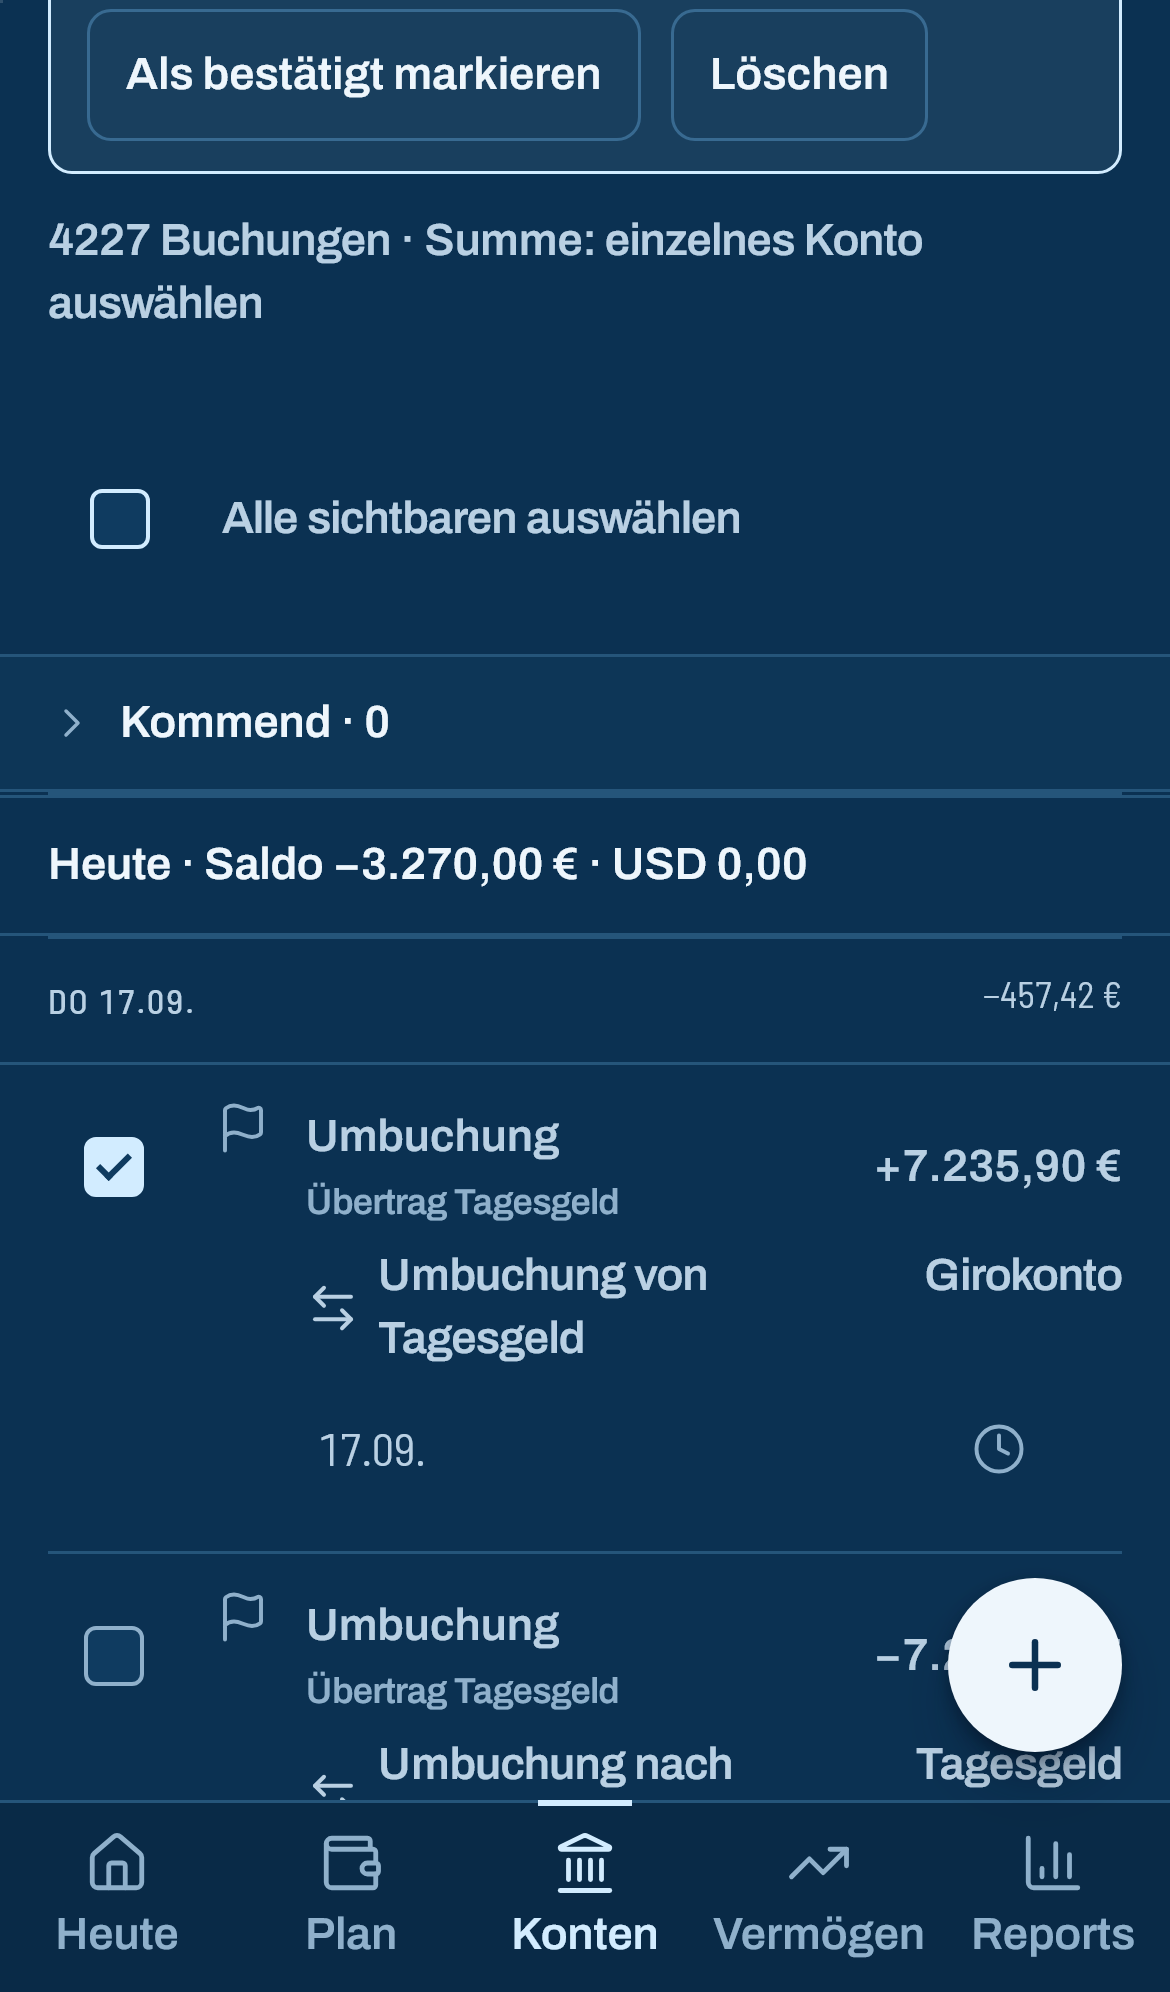
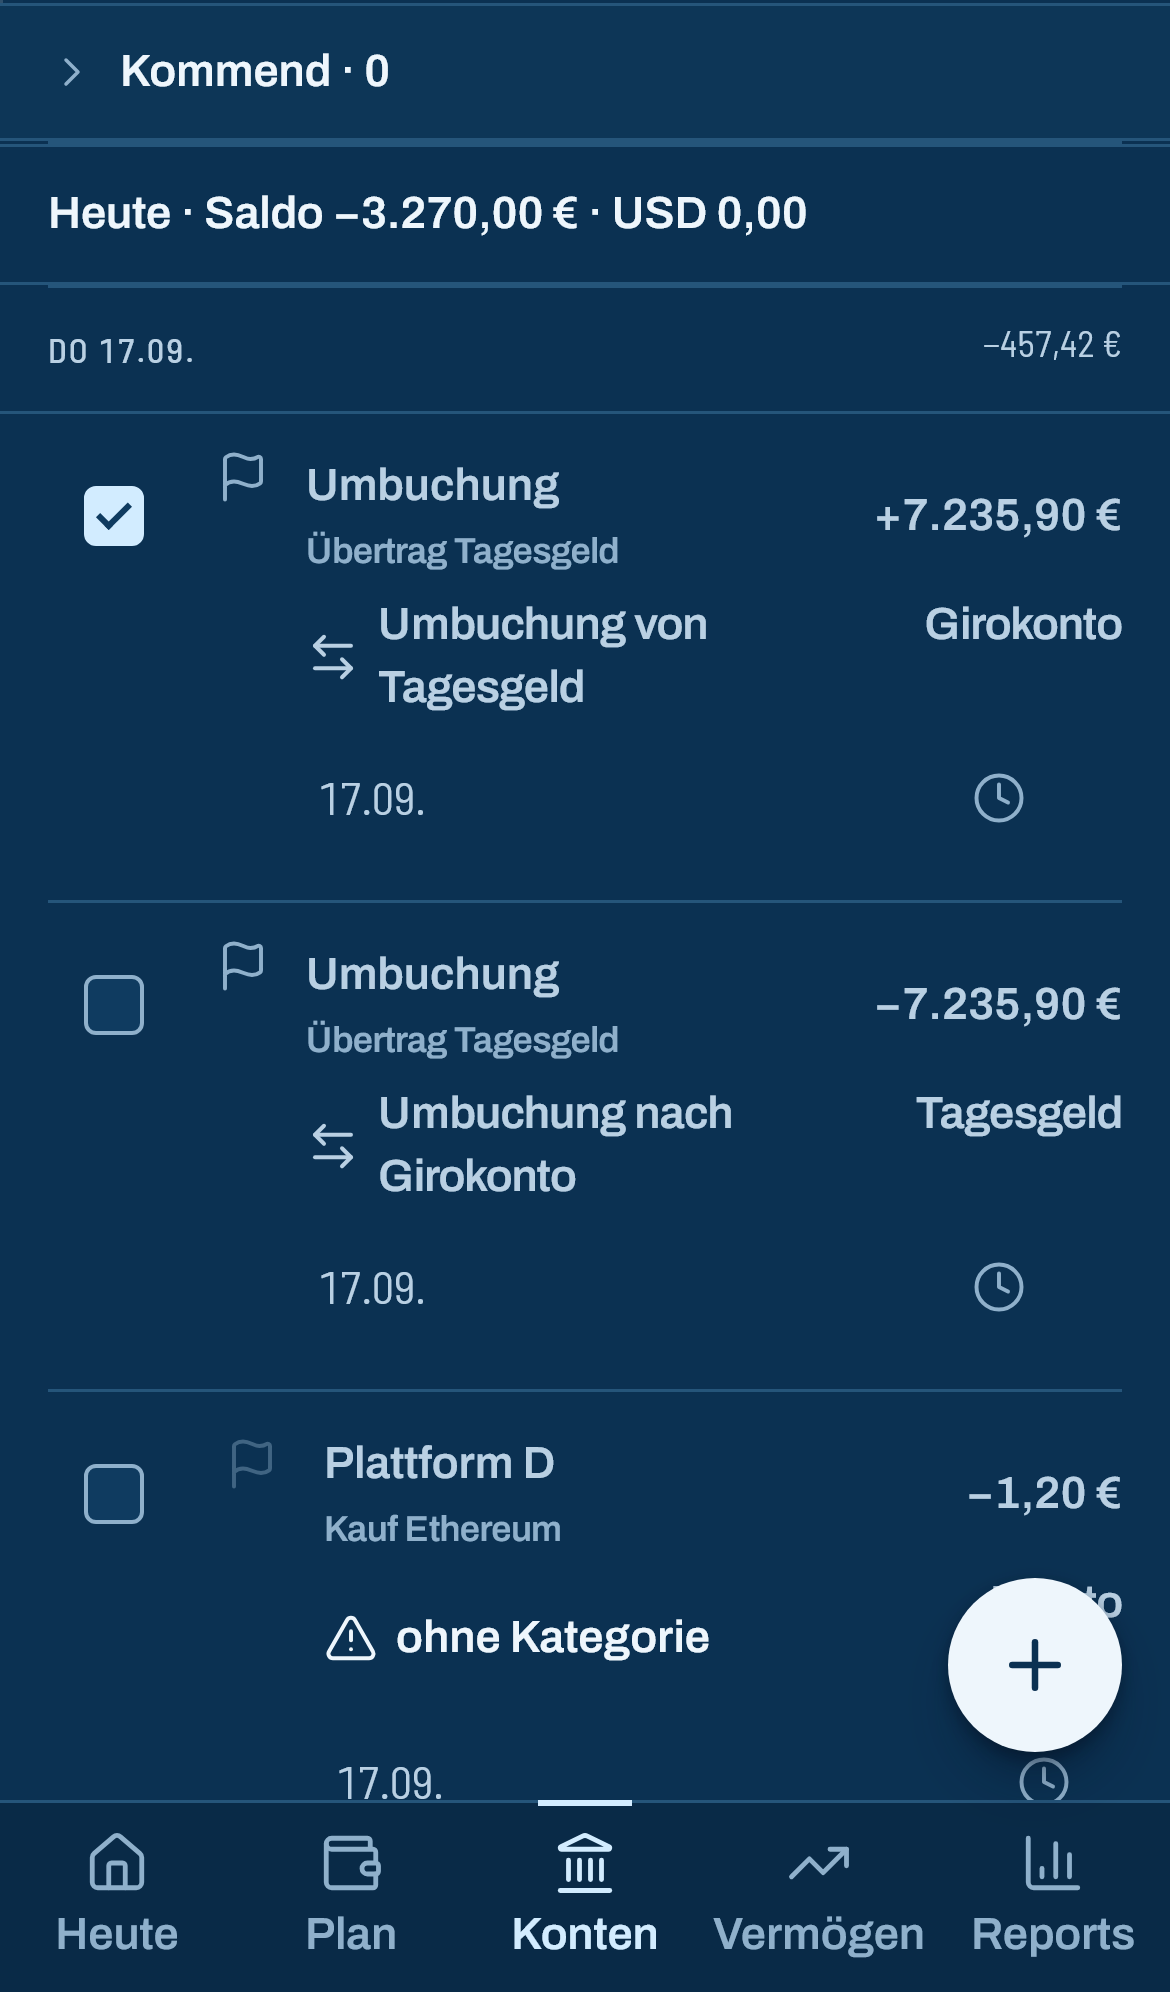
Selects: token-based appearance in all engines
Native selects ignored the tokens in WebKit (dark grey system background
in dark theme). Draw them from tokens with a gradient chevron.

diff --git a/e2e/checkbox-appearance.spec.ts b/e2e/checkbox-appearance.spec.ts
@@ -94,9 +94,46 @@ test.describe('checkbox appearance', () => {
       await expect(checkbox).toBeChecked();
       expect(await seriousViolations(page), `${scheme} bookings`).toEqual([]);
       if (process.env['CHECKBOX_EVIDENCE'] && info.project.name === 'webkit-iphone') {
+        await page.evaluate(() => scrollTo(0, 0));
+        await page.screenshot({ path: `docs/evidence/ios-checkbox/iphone-${scheme}-selects.png` });
+        await checkbox.scrollIntoViewIfNeeded();
         await page.evaluate(() => scrollBy(0, 160));
         await page.screenshot({ path: `docs/evidence/ios-checkbox/iphone-${scheme}.png` });
       }
+    });
+  }
+});
+
+test.describe('select appearance', () => {
+  // WebKit painted native selects with a dark grey system background in the dark theme.
+  for (const scheme of ['light', 'dark'] as const) {
+    test(`${scheme}: selects use the surface token, a drawn chevron and the touch height`, async ({
+      page,
+      hasTouch,
+    }) => {
+      await page.emulateMedia({ colorScheme: scheme, reducedMotion: 'reduce' });
+      await page.goto('/plan/monat');
+      const select = page.locator('.plan-view select').first();
+      await expect(select).toBeVisible();
+      const style = await select.evaluate((el) => {
+        const probe = document.createElement('div');
+        probe.style.background = 'var(--surface)';
+        document.body.append(probe);
+        const surface = getComputedStyle(probe).backgroundColor;
+        probe.remove();
+        const own = getComputedStyle(el);
+        return {
+          surface,
+          background: own.backgroundColor,
+          image: own.backgroundImage,
+          appearance: own.appearance || own.getPropertyValue('-webkit-appearance'),
+          height: el.getBoundingClientRect().height,
+        };
+      });
+      expect(style.appearance).toBe('none');
+      expect(style.background).toBe(style.surface);
+      expect(style.image).toContain('linear-gradient');
+      if (hasTouch) expect(style.height).toBeGreaterThanOrEqual(44);
     });
   }
 });

diff --git a/packages/ui/src/styles/components.css b/packages/ui/src/styles/components.css
@@ -1396,3 +1396,35 @@ input[type='radio']:disabled {
     background: Highlight;
   }
 }
+
+/* Single-line selects: the native control ignores the tokens in WebKit (dark grey system
+   background in the dark theme). Draw it from tokens in every engine; the chevron is two
+   gradients in the ink colour, no image. The specificity of :not() lets this win over pages that
+   restyle selects with the `background` shorthand; layout (height, width, radius of page-specific
+   selects) stays with the page. */
+select:not([multiple]):not([size]) {
+  -webkit-appearance: none;
+  appearance: none;
+  background-color: var(--surface);
+  background-image:
+    linear-gradient(45deg, transparent 50%, var(--ink-2) 50%),
+    linear-gradient(135deg, var(--ink-2) 50%, transparent 50%);
+  background-position:
+    calc(100% - 17px) 50%,
+    calc(100% - 12px) 50%;
+  background-size: 5px 5px;
+  background-repeat: no-repeat;
+  padding-right: 34px;
+  text-overflow: ellipsis;
+}
+:where(select) {
+  padding-block: 6px;
+  padding-left: 12px;
+  border: 1px solid var(--rule-strong);
+  border-radius: var(--radius-md);
+  color: var(--ink);
+}
+select:disabled {
+  opacity: 0.6;
+  cursor: not-allowed;
+}
